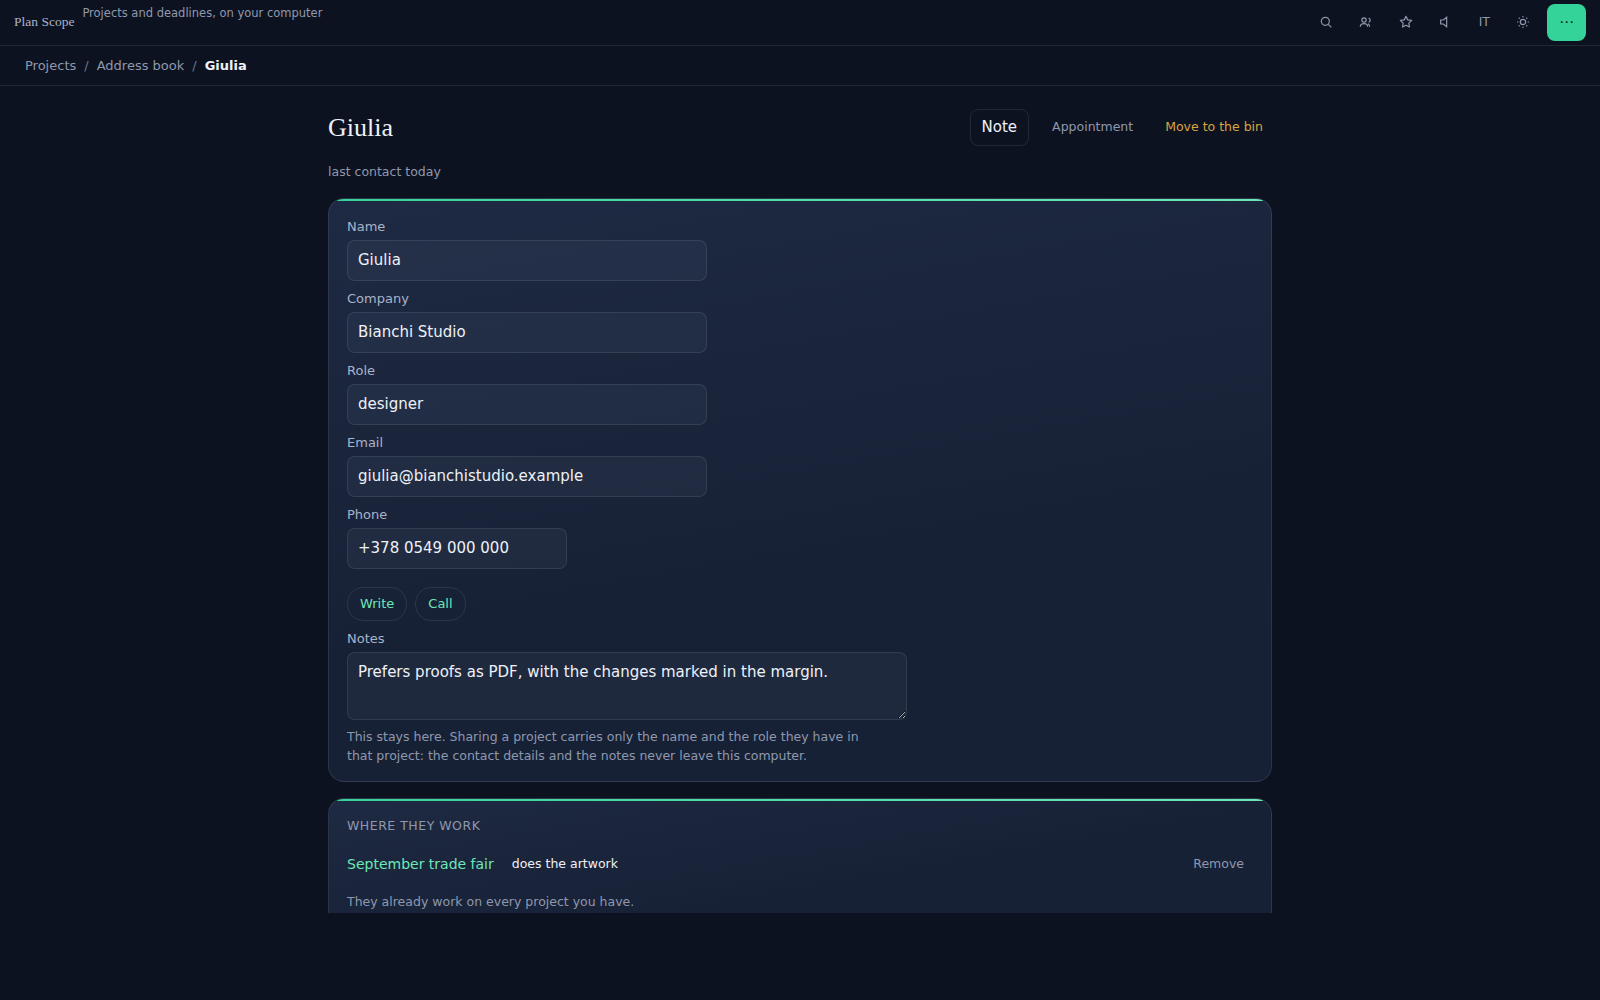
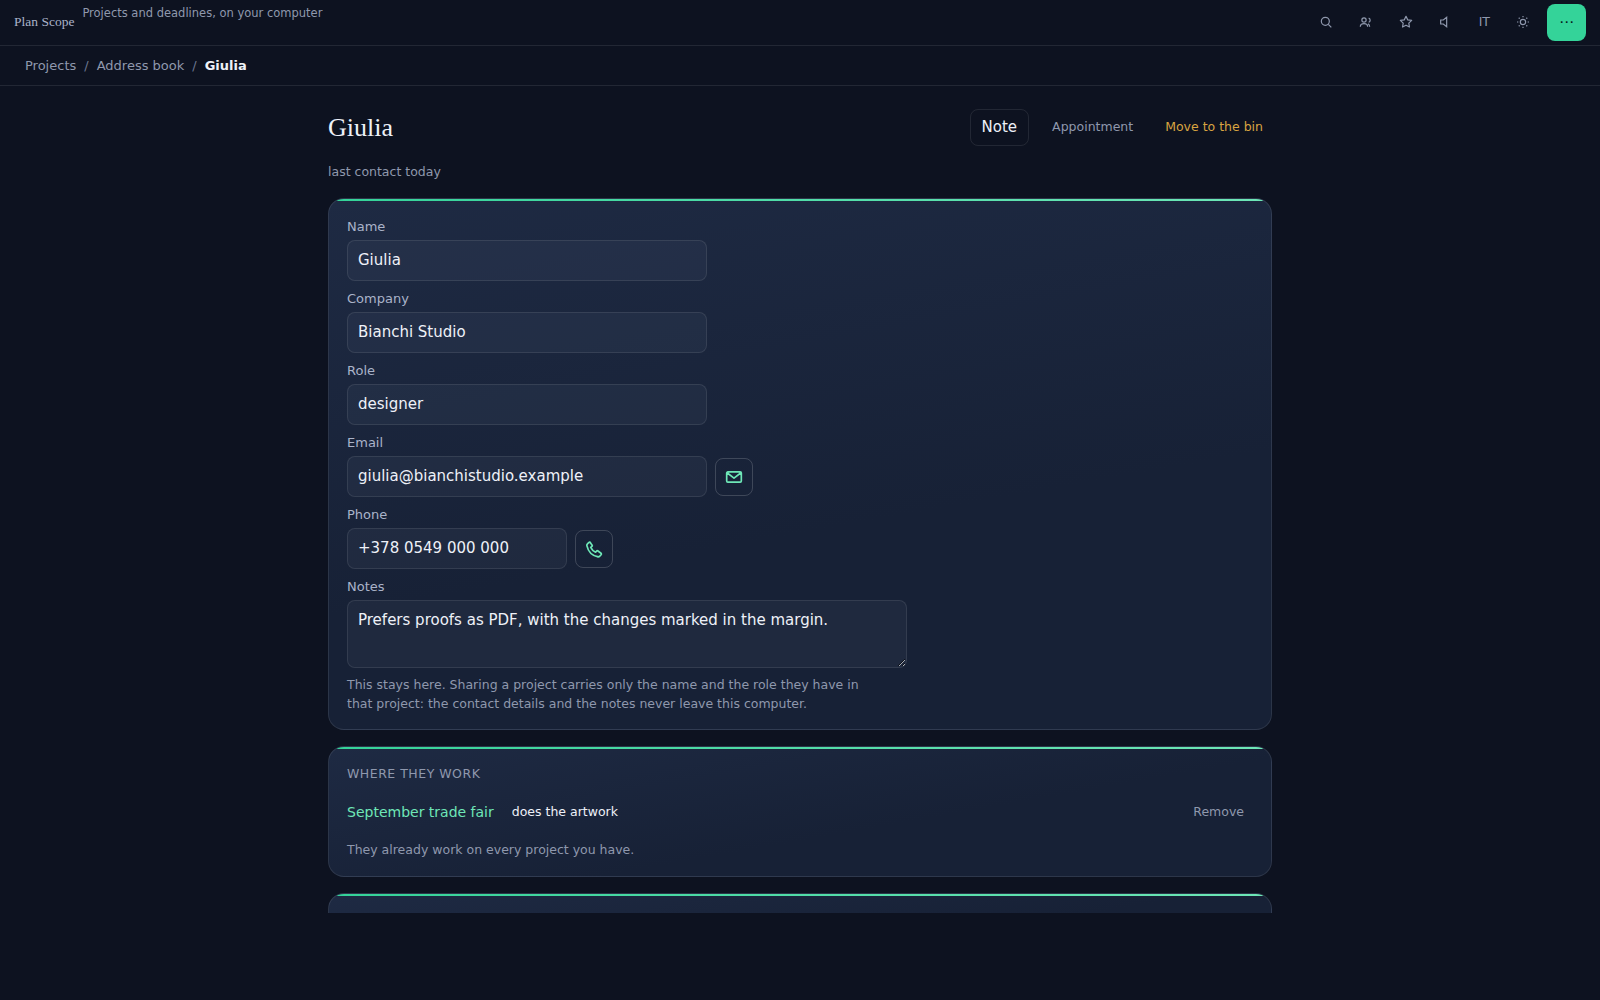
Plan Scope 4.53.0 — i simboli si spiegano, e i recapiti diventano icone
- Al passaggio del mouse ogni segno dice cosa significa: ↻ «Si ripete ogni
  giorno: spuntata, ne nasce una nuova», la bandierina, il lucchetto, il
  bivio della decisione, l'anello del ritardo, il rombo del traguardo.
  I comandi disegnati come simbolo (✕ ↗ ☆ ⋯, le icone della barra,
  l'editore) mostrano il loro nome; le caselle di spunta no, perché
  «Fatto» su una casella vuota si legge come uno stato.
- Scheda della persona: «Scrivete» e «Chiamate», due verbi al voi che si
  leggevano come nomi, diventano due icone disegnate accanto ai campi, con
  il nome dell'azione intera («Scrivere una email a …», «Chiamare …»).
  Compaiono e spariscono mentre si scrive. Screenshot rifatti.

Claude-Session: https://claude.ai/code/session_01FRz1Xxmc1XZuY9At2tQ4Ft

Changed region(s): [[0.1875, 0.589, 0.5938, 0.93], [0.75, 0.806, 0.7812, 0.868], [0.4375, 0.465, 0.4688, 0.496]]

diff --git a/app/plan-scope/run/home.js b/app/plan-scope/run/home.js
@@ -795,13 +795,31 @@ function _sign(name, label = "") {
     svg.setAttribute("role", "img");
     svg.setAttribute("aria-label", label);
   }
+  // What the mark means, on hover: an SVG takes its tooltip from a <title> child, not an attribute.
+  const hint = SIGN_HINTS[name];
+  if (hint) {
+    const title = document.createElementNS("http://www.w3.org/2000/svg", "title");
+    title.textContent = t(hint);
+    svg.prepend(title);
+  }
   return svg;
 }
+
+// The explanation each mark carries as a tooltip. The legend under the weeks says the same in a
+// word; this says what it means for the person reading it.
+const SIGN_HINTS = {
+  flag: "hintHigh",
+  lock: "hintBlocked",
+  decide: "hintDecide",
+  pen: "hintNotes",
+  clock: "hintWaiting",
+  meeting: "hintMeeting",
+};
 
 /** "↻", beside the title of a task that comes back: said, and named for a screen reader. */
 function _repeatMark(task) {
   const mark = node("span", "repeat-mark", "↻");
-  mark.title = t(`repeatShort_${task.repeat}`);
+  mark.title = tf("hintRepeat", { every: t(`repeatShort_${task.repeat}`) });
   mark.setAttribute("role", "img");
   mark.setAttribute("aria-label", t("seriesRepeats"));
   return mark;
@@ -812,7 +830,15 @@ function _lateRing() {
   const ring = node("span", "late-ring");
   ring.setAttribute("role", "img");
   ring.setAttribute("aria-label", t("dueLate"));
+  ring.title = t("hintLate");
   return ring;
+}
+
+/** The milestone's diamond, with what a milestone is on hover. */
+function _diamond() {
+  const mark = node("span", "diamond");
+  mark.title = t("hintMilestone");
+  return mark;
 }
 
 /** The meeting whose boxes a task was born in, by the task's `uid`: "dall'Incontro con Giulia". */
@@ -985,7 +1011,7 @@ function _paintPlan(id, today) {
   line.hidden = !milestone;
   if (milestone) {
     fill(line, [
-      node("span", "diamond"),
+      _diamond(),
       node("span", "meta", t("planMilestone")),
       button("link", milestone.task.title || t("taskUntitled"), () => on.openTask(milestone.task.id)),
       node("span", milestone.task.end < today ? "meta late" : "meta",
@@ -1120,7 +1146,7 @@ function _paintWeeks(id, today) {
         blocked: () => _sign("lock"),
         decide: () => _sign("decide"),
         meeting: () => _sign("meeting"),
-        milestone: () => node("span", "diamond"),
+        milestone: () => _diamond(),
         task: () => node("span", "dot"),
       }[item.kind];
       mark.append(shape());
@@ -1142,7 +1168,7 @@ function _paintWeeks(id, today) {
     ["high", () => _sign("flag"), "nowHigh"],
     ["decide", () => _sign("decide"), "nowDecide"],
     ["blocked", () => _sign("lock"), "nowBlocked"],
-    ["milestone", () => node("span", "diamond"), "weeksMilestone"],
+    ["milestone", () => _diamond(), "weeksMilestone"],
     ["meeting", () => _sign("meeting"), "weeksMeeting"],
   ];
   fill(el("weeksLegend"), legend.map(([kind, draw, key]) => {

diff --git a/app/plan-scope/run/i18n.js b/app/plan-scope/run/i18n.js
@@ -64,8 +64,8 @@ const IT = {
   meetWithMany: "Più nomi, separati da virgola",
   meetTodayHint: "Senza ora, un incontro di oggi vale come nota: non compare fra le scadenze e non "
     + "suona. Indicando l'ora resta davanti fino a quel momento.",
-  personWrite: "Scrivete",
-  personCall: "Chiamate",
+  personWriteTo: "Scrivere una email a {who}",
+  personCallTo: "Chiamare {who}",
   contactsMadeOne: "«{name}» è in rubrica, da completare.",
   contactsMade: "{n} persone nuove in rubrica.",
   propOpenPerson: "Apri la scheda in rubrica",
@@ -605,6 +605,15 @@ const IT = {
   priorityNone: "Nessuna",
   priorityLow: "Bassa",
   priorityHigh: "Alta",
+  hintHigh: "Priorità alta",
+  hintBlocked: "Bloccata: aspetta che un'altra attività sia fatta",
+  hintDecide: "Decisione da prendere: nelle note c'è la domanda",
+  hintNotes: "Incontro già avvenuto, senza note",
+  hintWaiting: "Ferma un'altra attività finché non è fatta",
+  hintMeeting: "Appuntamento",
+  hintLate: "In ritardo: la scadenza è passata",
+  hintMilestone: "Traguardo: una data che conta",
+  hintRepeat: "Si ripete {every}: spuntata, ne nasce una nuova",
   seriesRepeats: "Si ripete",
   seriesClose: "Chiudi la serie",
   seriesEnd: "Termina la serie",
@@ -1269,8 +1278,8 @@ const EN = {
   meetWithMany: "Several names, separated by commas",
   meetTodayHint: "With no time, a meeting today counts as a note: it stays out of what is due and "
     + "never rings. With a time it stays ahead until that moment.",
-  personWrite: "Write",
-  personCall: "Call",
+  personWriteTo: "Send an email to {who}",
+  personCallTo: "Call {who}",
   contactsMadeOne: "“{name}” is in the address book, to be completed.",
   contactsMade: "{n} new people in the address book.",
   propOpenPerson: "Open the card in the address book",
@@ -1804,6 +1813,15 @@ const EN = {
   priorityNone: "None",
   priorityLow: "Low",
   priorityHigh: "High",
+  hintHigh: "High priority",
+  hintBlocked: "Blocked: waiting for another task to be done",
+  hintDecide: "A decision to make: the question is in the notes",
+  hintNotes: "A meeting already held, without notes",
+  hintWaiting: "Holds up another task until it is done",
+  hintMeeting: "Appointment",
+  hintLate: "Late: the deadline has passed",
+  hintMilestone: "Milestone: a date that matters",
+  hintRepeat: "Repeats {every}: once ticked, a new one appears",
   seriesRepeats: "Repeats",
   seriesClose: "Close the series",
   seriesEnd: "End the series",

diff --git a/app/plan-scope/run/index.html b/app/plan-scope/run/index.html
@@ -747,13 +747,23 @@
         <input type="text" id="personCompany" maxlength="120" autocomplete="off">
         <label for="personRole" data-t="personRole"></label>
         <input type="text" id="personRole" maxlength="80" autocomplete="off">
+        <!-- The contact details are used, not only read: the mail and the call start from the
+             symbol beside each field, which appears as soon as there is something to use. A verb
+             under the fields ("Scrivete", "Chiamate") read as a noun and said nothing. -->
         <label for="personEmail" data-t="personEmail"></label>
-        <input type="email" id="personEmail" maxlength="160" autocomplete="off">
+        <div class="field-action">
+          <input type="email" id="personEmail" maxlength="160" autocomplete="off">
+          <a id="personMailGo" class="icon-action" href="#" hidden>
+            <svg viewBox="0 0 16 16" aria-hidden="true"><path d="M2.5 3.5h11a1 1 0 0 1 1 1v7a1 1 0 0 1-1 1h-11a1 1 0 0 1-1-1v-7a1 1 0 0 1 1-1z M1.8 4.2L8 9l6.2-4.8"/></svg>
+          </a>
+        </div>
         <label for="personPhone" data-t="personPhone"></label>
-        <input type="text" id="personPhone" maxlength="60" autocomplete="off">
-        <!-- I recapiti si usano, non solo si leggono: da qui partono il messaggio e la chiamata,
-             che su un telefono erano un copia e incolla. Compaiono quando c'è qualcosa da usare. -->
-        <p class="row person-reach" id="personReach" hidden></p>
+        <div class="field-action">
+          <input type="text" id="personPhone" maxlength="60" autocomplete="off">
+          <a id="personCallGo" class="icon-action" href="#" hidden>
+            <svg viewBox="0 0 16 16" aria-hidden="true"><path d="M4.2 1.8l2 2.6c.3.4.3 1-.1 1.3l-1 .9a8.5 8.5 0 0 0 4.3 4.3l.9-1c.3-.4.9-.4 1.3-.1l2.6 2c.4.3.5.9.1 1.3l-1.2 1.3c-.5.5-1.3.7-2 .4A12.5 12.5 0 0 1 1.8 5.4c-.3-.7-.1-1.5.4-2l1.3-1.2c.4-.4 1-.3 1.3.1z"/></svg>
+          </a>
+        </div>
         <!-- What is worth knowing about the person and belongs to no project: before this field it
              went into a project page, and was found only by whoever opened that project. -->
         <label for="personNotes" data-t="personNotes"></label>

diff --git a/app/plan-scope/run/ui.js b/app/plan-scope/run/ui.js
@@ -19,9 +19,30 @@ import { t, tf, lang, num } from "./i18n.js";
 // chi importa questo file e **non** crea un legame qui dentro: `snack` e `ask`, che chiamano `el` e
 // `node` due righe più sotto, sono morte con «el is not defined». Trovato aprendo Plan Scope in un
 // browser vero — nessun test lo copriva, perché `ui.js` è tutto DOM.
-import { el, node, button, fill } from "gg/dom.js";
+import { el, node, button as _domButton, fill } from "gg/dom.js";
 
-export { el, node, button, fill };
+export { el, node, fill };
+
+/**
+ * A button, as `gg/dom.js` makes it — plus, when what is drawn on it is a symbol and not a word
+ * (✕, ↗, ☆, ⋯), its name as a tooltip. The name was already there for a screen reader; somebody
+ * with a mouse, looking at a ↗, had nothing to go on but trying it.
+ */
+/**
+ * Whether a button shows a symbol rather than a word: one or two characters, or an "icon" button
+ * drawn with an SVG. A tick box is neither — it is empty, and its name ("Fatto") on hover would
+ * read as a state instead of as the action.
+ */
+function _isSymbol(element) {
+  const text = element.textContent.trim();
+  return (text.length > 0 && text.length <= 2) || element.classList.contains("icon");
+}
+
+export function button(className, text, onClick, options = {}) {
+  const element = _domButton(className, text, onClick, options);
+  if (options.label && _isSymbol(element)) element.title = options.label;
+  return element;
+}
 
 // Eight seconds. Long enough to notice and reach it, short enough not to sit over the interface.
 const SNACK_MS = 8000;
@@ -45,6 +66,10 @@ export function applyText(root = document) {
   }
   for (const node of root.querySelectorAll("[data-t-label]")) {
     node.setAttribute("aria-label", t(node.dataset.tLabel));
+    // A command drawn as a symbol — ⋯, +, a magnifier — shows its name on hover as well.
+    if (node.tagName === "BUTTON" && !node.dataset.tTitle && _isSymbol(node)) {
+      node.setAttribute("title", t(node.dataset.tLabel));
+    }
   }
   for (const node of root.querySelectorAll("[data-t-placeholder]")) {
     node.setAttribute("placeholder", t(node.dataset.tPlaceholder));

diff --git a/app/plan-scope/run/app.js b/app/plan-scope/run/app.js
@@ -884,28 +884,29 @@ function _openPerson(id) {
 }
 
 /**
- * I due recapiti come comandi, ridisegnati mentre si scrivono.
+ * The two contact details as commands, redrawn as they are typed.
  *
- * Si ridipinge a ogni tasto sui due campi e non solo all'apertura: chi compila una scheda nuova
- * scrive il numero e poi chiama, e un pulsante che compare solo la volta dopo non c'è quando serve.
+ * Repainted on every key of the two fields and not only on opening: whoever fills in a new card
+ * types the number and then calls, and a symbol that appears only the next time is not there when
+ * it is needed. The name of each says the whole action — "Scrivere a anna@…" — for the tooltip and
+ * for a screen reader, since the symbol alone says it only to whoever already knows it.
  */
 function _paintReach(person) {
-  const reach = [];
-  if (person.email) reach.push(_reachLink(`mailto:${person.email}`, t("personWrite"), person.email));
-  if (person.phone) {
-    reach.push(_reachLink(`tel:${String(person.phone).replace(/[^+\d]/g, "")}`, t("personCall"), person.phone));
-  }
-  el("personReach").hidden = reach.length === 0;
-  fill(el("personReach"), reach);
+  const mail = el("personMailGo");
+  const call = el("personCallGo");
+  const email = String(person.email || "").trim();
+  const phone = String(person.phone || "").trim();
+  mail.hidden = !email;
+  call.hidden = !phone;
+  if (email) _reachLink(mail, `mailto:${email}`, tf("personWriteTo", { who: email }));
+  if (phone) _reachLink(call, `tel:${phone.replace(/[^+\d]/g, "")}`, tf("personCallTo", { who: phone }));
 }
 
-/** Un recapito da usare: il verbo si legge, l'indirizzo sta sotto il dito. */
-function _reachLink(href, label, said) {
-  const link = node("a", "reach");
+/** One contact command: where it goes, and what it does, said. */
+function _reachLink(link, href, said) {
   link.href = href;
-  link.textContent = label;
-  link.setAttribute("aria-label", `${label} ${said}`);
-  return link;
+  link.title = said;
+  link.setAttribute("aria-label", said);
 }
 
 function _paintPerson() {

diff --git a/app/plan-scope/run/styles.css b/app/plan-scope/run/styles.css
@@ -1617,20 +1617,28 @@ html[data-theme="light"] { --high: #b42318; --decide: #6b3fb3; --wait: #3d5c99; 
   overflow: hidden; text-overflow: ellipsis; white-space: nowrap; max-width: 100%; }
 .task-card.is-meeting a.where { color: var(--accent-text); }
 
-/* I due recapiti, sotto i campi della scheda: bersagli veri, non due parole in mezzo al testo. */
-.person-reach { gap: 8px; margin: 10px 0 0; }
-.person-reach .reach {
-  border: 1px solid var(--border);
-  border-radius: var(--radius);
-  padding: 6px 12px;
-  min-height: 34px;
+/* A field with its command beside it: the address and the mail, the number and the call. The
+   command is a real target — 38 px, the height of the field — and the symbol is drawn, in the
+   accent, so it reads the same in both themes and on every system. */
+.field-action { display: flex; align-items: center; gap: 8px; }
+/* The field keeps the width the card gives it — the address as long as the name, the number
+   shorter — and the command sits right after it, not at the far edge of the card. */
+.field-action input { flex: 0 1 auto; min-width: 0; }
+.icon-action {
+  flex: none;
   display: inline-flex;
   align-items: center;
+  justify-content: center;
+  width: 38px;
+  height: 38px;
+  border: 1px solid var(--border-strong);
+  border-radius: var(--radius-sm);
   color: var(--accent-text);
-  text-decoration: none;
-  font-size: 13px;
 }
-.person-reach .reach:hover { border-color: var(--accent); }
+.icon-action[hidden] { display: none; }
+.icon-action:hover, .icon-action:focus-visible { border-color: var(--accent); background: var(--accent-soft); }
+.icon-action svg { width: 18px; height: 18px; fill: none; stroke: currentColor; stroke-width: 1.5;
+  stroke-linecap: round; stroke-linejoin: round; }
 
 .task-card.is-meeting .meet-x {
   flex: none;

diff --git a/app/plan-scope/run/plan.js b/app/plan-scope/run/plan.js
@@ -386,7 +386,7 @@ function _taskCard(task, today) {
   // The mark beside the title, before the tick is pressed: this one comes back.
   if (task.repeat) {
     const mark = node("span", "repeat-mark", "↻");
-    mark.title = t(`repeatShort_${task.repeat}`);
+    mark.title = tf("hintRepeat", { every: t(`repeatShort_${task.repeat}`) });
     mark.setAttribute("role", "img");
     mark.setAttribute("aria-label", t("seriesRepeats"));
     head.append(mark);
@@ -414,7 +414,9 @@ function _taskCard(task, today) {
     const words = [t(`repeatShort_${task.repeat}`)];
     if (series.next) words.push(tf("seriesThen", { date: shortDate(series.next) }));
     else words.push(t("seriesLast"));
-    meta.append(node("span", "who repeat-pill", `↻ ${words.join(" · ")}`));
+    const pill = node("span", "who repeat-pill", `↻ ${words.join(" · ")}`);
+    pill.title = tf("hintRepeat", { every: t(`repeatShort_${task.repeat}`) });
+    meta.append(pill);
   }
   // Il documento si vede da fuori, e ci si arriva da fuori: la carta dice che questa attività ha
   // una procedura dietro, e il clic la apre senza passare dalla scheda. Un'attività con un

diff --git a/app/plan-scope/index.html b/app/plan-scope/index.html
@@ -79,7 +79,7 @@
     "image": "https://ggtechnologies.sm/assets/og-app-plan-scope-it.jpg",
     "applicationCategory": "BusinessApplication",
     "operatingSystem": "Any (web browser)",
-    "softwareVersion": "4.52.0",
+    "softwareVersion": "4.53.0",
     "datePublished": "2026-09-01",
     "dateModified": "2026-09-25",
     "license": "https://www.apache.org/licenses/LICENSE-2.0",
@@ -361,7 +361,7 @@
             </div>
           </div>
         </div>
-        <p class="app-meta"><span><b>Versione</b> 4.52.0</span><span><b>Aggiornata il</b> 25 settembre 2026</span><span><b>Licenza</b> Apache-2.0</span><a href="https://github.com/G-G-Technologies-Srl/g-g-technologies-srl.github.io/tree/main/app/plan-scope" rel="noopener">Codice sorgente</a></p>
+        <p class="app-meta"><span><b>Versione</b> 4.53.0</span><span><b>Aggiornata il</b> 25 settembre 2026</span><span><b>Licenza</b> Apache-2.0</span><a href="https://github.com/G-G-Technologies-Srl/g-g-technologies-srl.github.io/tree/main/app/plan-scope" rel="noopener">Codice sorgente</a></p>
       </div>
     </section>
 

diff --git a/en/app/plan-scope/index.html b/en/app/plan-scope/index.html
@@ -79,7 +79,7 @@
     "image": "https://ggtechnologies.sm/assets/og-app-plan-scope-en.jpg",
     "applicationCategory": "BusinessApplication",
     "operatingSystem": "Any (web browser)",
-    "softwareVersion": "4.52.0",
+    "softwareVersion": "4.53.0",
     "datePublished": "2026-09-01",
     "dateModified": "2026-09-25",
     "license": "https://www.apache.org/licenses/LICENSE-2.0",
@@ -361,7 +361,7 @@
             </div>
           </div>
         </div>
-        <p class="app-meta"><span><b>Version</b> 4.52.0</span><span><b>Updated</b> 25 September 2026</span><span><b>Licence</b> Apache-2.0</span><a href="https://github.com/G-G-Technologies-Srl/g-g-technologies-srl.github.io/tree/main/app/plan-scope" rel="noopener">Source code</a></p>
+        <p class="app-meta"><span><b>Version</b> 4.53.0</span><span><b>Updated</b> 25 September 2026</span><span><b>Licence</b> Apache-2.0</span><a href="https://github.com/G-G-Technologies-Srl/g-g-technologies-srl.github.io/tree/main/app/plan-scope" rel="noopener">Source code</a></p>
       </div>
     </section>
 

diff --git a/app/plan-scope/run/sw.js b/app/plan-scope/run/sw.js
@@ -12,7 +12,7 @@
 //    running app means changing the code while somebody has unsaved keystrokes in a page, and
 //    saving them one reload is not worth that.
 
-const VERSION = '4.52.0';
+const VERSION = '4.53.0';
 const CACHE = `plan-scope-v${VERSION}`;
 
 // La cache dei promemoria, e **l'unica che sopravvive a un aggiornamento**. Il nome non porta la
